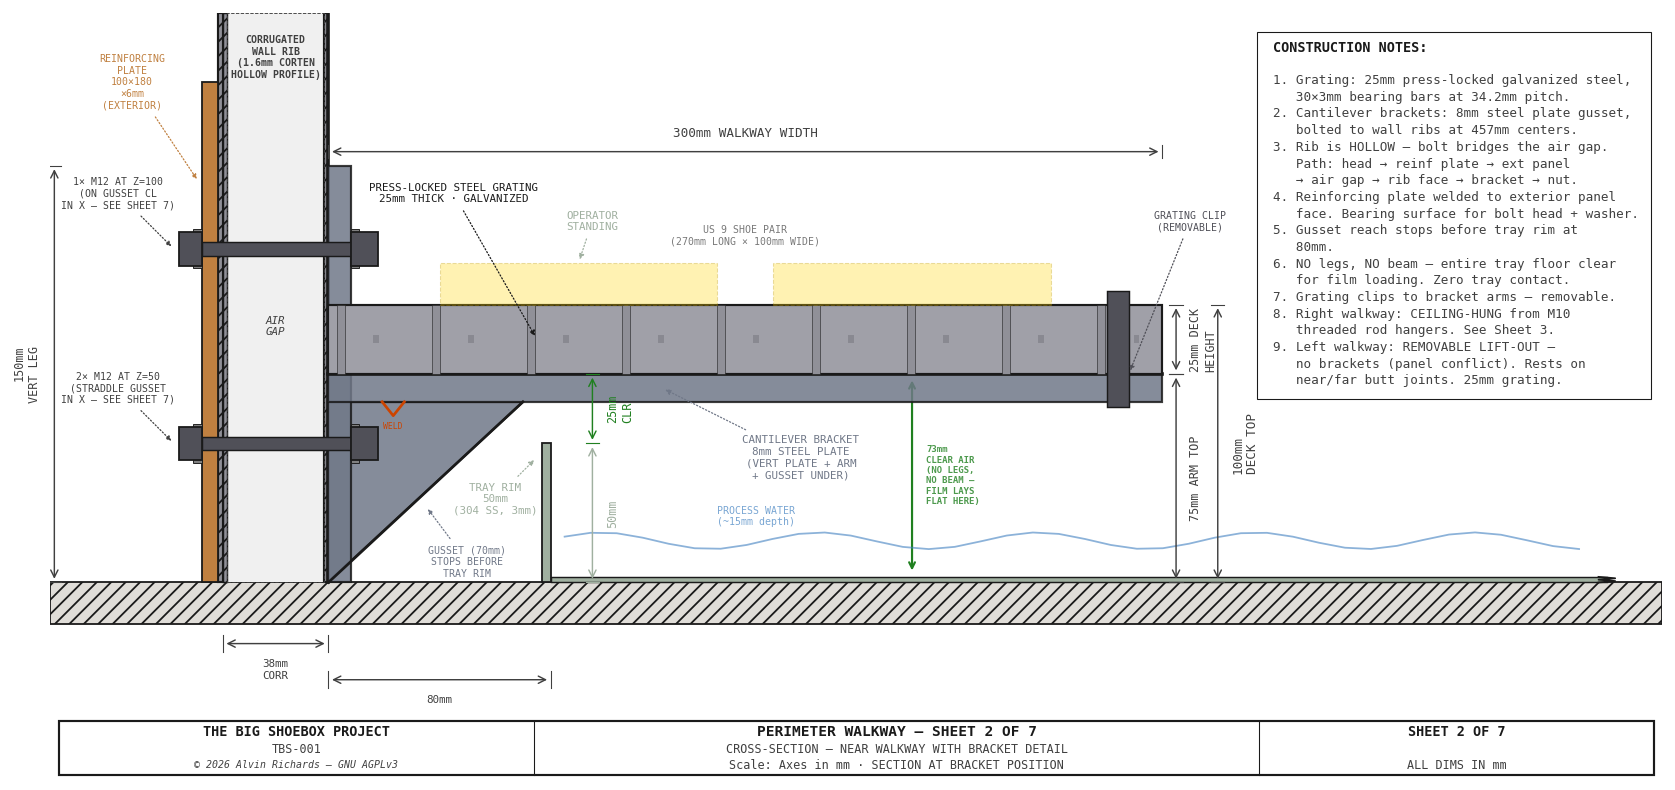
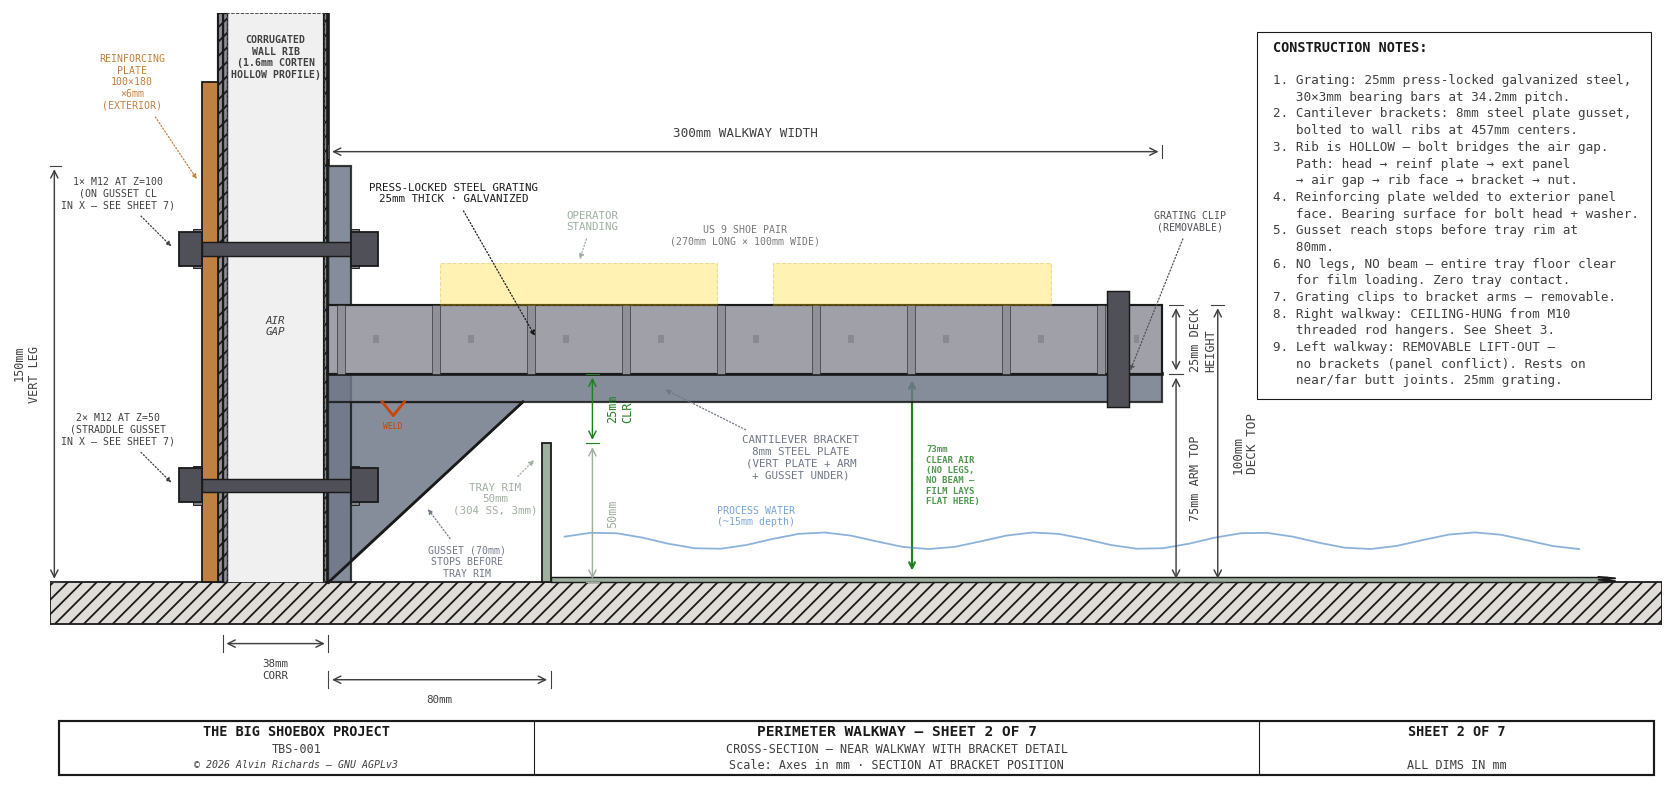
Lower bolt pair: drop Z=50→35, center X offset between plate edge and gusset (±27mm)
Bolt X offset changed from ±20mm to ±27mm — midpoint between plate edge
(50mm from CL) and gusset edge (4mm from CL). Lower pair dropped 15mm
from Z=50 to Z=35. Updated across sheets 2, 6, 7 and walkway report.

Changed region(s): [[0.031, 0.4557, 0.2484, 0.638]]

diff --git a/generate_walkway_diagram.py b/generate_walkway_diagram.py
@@ -274,15 +274,15 @@ def sheet2():
             **FONT, zorder=15)
 
     # Through-bolts (3× M12) — horizontal shanks through wall + bracket
-    # Triangular pattern: 2× at Z=50 (flanking gusset in X), 1× at Z=120 (centered)
-    # In this side view (along X), the two Z=50 bolts overlap — shown as one + "2×" label
+    # Triangular pattern: 2× at Z=35 (flanking gusset in X), 1× at Z=120 (centered)
+    # In this side view (along X), the two Z=35 bolts overlap — shown as one + "2×" label
     BOLT_D    = 12
     BOLT_R    = BOLT_D / 2
     BOLT_HEAD = 8    # hex head height (Yd direction)
     NUT_H     = 10   # nut height (Yd direction)
     WASHER_T  = 3
     C_BOLT    = "#505058"
-    bolt_z_lo = 50   # lower pair — 1/3 from floor (2 bolts flanking gusset in X)
+    bolt_z_lo = 35   # lower pair — flanking gusset in X, ±27mm from CL
     bolt_z_hi = 120  # upper single — above grating deck (Z=100), on gusset CL
 
     for bz in [bolt_z_lo, bolt_z_hi]:
@@ -2022,10 +2022,10 @@ def sheet6():
            ha="left", va="bottom", arrow_style="-|>", font=FONT)
 
     # ── Through-bolts (horizontal shanks — matching sheet 2) ─────────────────
-    # Triangular pattern: 2× at Z=50 (flanking gusset in X), 1× at Z=120 (centered)
-    # In this side view, the two Z=50 bolts overlap
+    # Triangular pattern: 2× at Z=35 (flanking gusset in X), 1× at Z=120 (centered)
+    # In this side view, the two Z=35 bolts overlap
     C_BOLT = "#505058"
-    bolt_z_lo = 50
+    bolt_z_lo = 35
     bolt_z_hi = 120
     for bz in [bolt_z_lo, bolt_z_hi]:
         shank_left = reinf_yd
@@ -2461,9 +2461,9 @@ def sheet7():
     WALL_T     = 1.6
 
     # Bolt positions — triangular pattern
-    BOLT_Z_LO  = 50    # lower pair — 1/3 from floor
+    BOLT_Z_LO  = 35    # lower pair — centered between plate edge and gusset in X
     BOLT_Z_HI  = 120   # upper single — above grating deck (Z=100), 30mm from plate top
-    BOLT_X_OFF = 20    # lower bolt X offset from plate center (mm)
+    BOLT_X_OFF = 27    # lower bolt X offset: midpoint of plate edge (50) and gusset edge (4)
     BOLT_D     = 12
     BOLT_R     = BOLT_D / 2
     HOLE_D     = 14    # clearance hole
@@ -2774,9 +2774,9 @@ def sheet7():
     notes = [
         "BOLT PATTERN NOTES:",
         f"1. Triangular pattern: 2 lower + 1 upper.",
-        f"2. Lower pair at Z={BOLT_Z_LO}mm (1/3 plate height",
-        f"   from floor), X=±{BOLT_X_OFF}mm from CL",
-        f"   — straddle the {BRKT_T}mm gusset plate.",
+        f"2. Lower pair at Z={BOLT_Z_LO}mm, X=±{BOLT_X_OFF}mm",
+        f"   from CL — centered between plate edge",
+        f"   and {BRKT_T}mm gusset.",
         f"3. Upper bolt at Z={BOLT_Z_HI}mm (above grating",
         f"   deck Z=100), centered on gusset CL.",
         f"4. All holes {HOLE_D}mm clearance for M12.",

diff --git a/walkway-report.md b/walkway-report.md
@@ -72,9 +72,9 @@ Each bracket is a three-piece welded 8mm steel plate assembly:
 **Attachment:** 3× M12 through-bolts per bracket in a triangular pattern,
 passing through the full wall assembly: hex head → reinforcing plate (6mm) →
 exterior panel (1.6mm Corten) → air gap → rib interior face (1.6mm) →
-bracket vertical plate (8mm) → nut. Two lower bolts at Z=50 mm (1/3 plate
-height from floor) straddle the 8mm gusset plate at ±20 mm from the plate
-centerline in X. One upper bolt at Z=120 mm (above grating deck at Z=100,
+bracket vertical plate (8mm) → nut. Two lower bolts at Z=35 mm straddle
+the 8mm gusset plate at ±27 mm from the plate centerline in X (centered
+between plate edge and gusset). One upper bolt at Z=120 mm (above grating deck at Z=100,
 30 mm from plate top) is centered on the gusset centerline. The container
 corrugation ribs are hollow — each bolt bridges the air gap inside the rib.
 A 6mm reinforcing plate (100×180mm) is welded to the exterior panel face to
